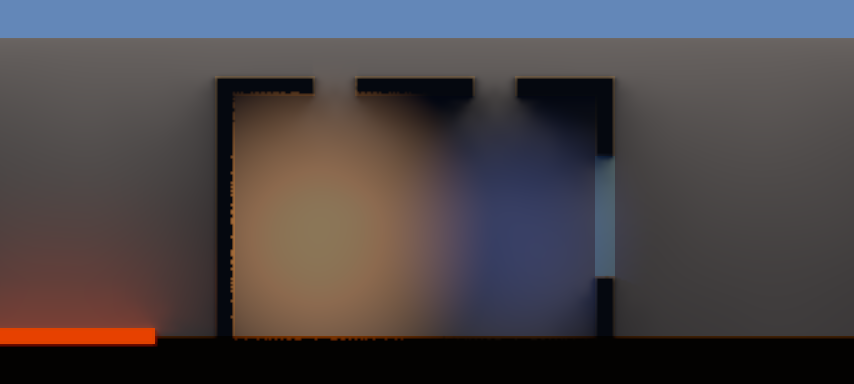
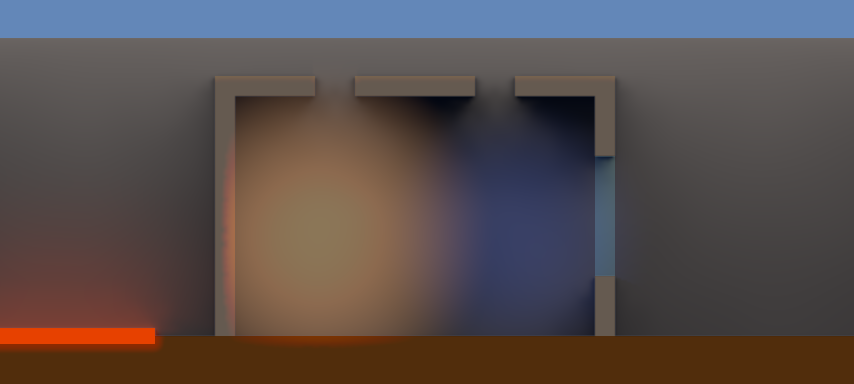
olr-format: soak 8 and a 30 % solid floor by default (plan 15a Stop 1b)
Claude-Session: https://claude.ai/code/session_019821i4KFSbhZ4mHYULrhEV

Changed region(s): [[0.0, 0.1875, 1.0, 1.0]]

diff --git a/crates/olr-format/src/look.rs b/crates/olr-format/src/look.rs
@@ -170,15 +170,39 @@ impl Default for AmbientSource {
 
 /// The least light an opaque solid pixel (rock or dirt that is not clear)
 /// shows, so deep rock still shows its art.
-#[derive(Clone, Copy, Debug, Default, PartialEq, Eq, Serialize, Deserialize)]
+#[derive(Clone, Copy, Debug, PartialEq, Eq, Serialize, Deserialize)]
 #[serde(deny_unknown_fields)]
 pub struct SolidFloorSource {
     /// Opaque. Default none: white.
     #[serde(default, skip_serializing_if = "Option::is_none")]
     pub colour: Option<Colour>,
-    /// Percent, 0 to 100. Default 0 (none).
-    #[serde(default, skip_serializing_if = "d::is_default")]
+    /// Percent, 0 to 100 (0: none). Default 30 (plan 15a Stop 1b).
+    #[serde(default = "solid_floor_intensity", skip_serializing_if = "is_solid_floor_intensity")]
     pub intensity: u16,
+}
+
+impl Default for SolidFloorSource {
+    fn default() -> SolidFloorSource {
+        SolidFloorSource { colour: None, intensity: solid_floor_intensity() }
+    }
+}
+
+/// The solid floor's default intensity, percent (plan 15a Stop 1b).
+fn solid_floor_intensity() -> u16 {
+    30
+}
+
+fn is_solid_floor_intensity(v: &u16) -> bool {
+    *v == solid_floor_intensity()
+}
+
+/// The default light soak, world pixels (plan 15a Stop 1b).
+fn light_soak() -> u8 {
+    8
+}
+
+fn is_light_soak(v: &u8) -> bool {
+    *v == light_soak()
 }
 
 fn hundred() -> u16 {
@@ -269,10 +293,10 @@ pub struct LookSource {
     #[serde(default, skip_serializing_if = "d::is_default")]
     pub softness: u8,
     /// How deep light soaks into solids from the air beside them, world
-    /// pixels, 0 to 12, fading with depth. Default 0.
-    #[serde(default, skip_serializing_if = "d::is_default")]
+    /// pixels, 0 to 12, fading with depth. Default 8.
+    #[serde(default = "light_soak", skip_serializing_if = "is_light_soak")]
     pub light_soak: u8,
-    /// The least light of an opaque solid. Default none.
+    /// The least light of an opaque solid. Default white at 30.
     #[serde(default, skip_serializing_if = "d::is_default")]
     pub solid_floor: SolidFloorSource,
     /// Default none.
@@ -291,7 +315,7 @@ impl Default for LookSource {
             max_light: 100,
             light_steps: 0,
             softness: 0,
-            light_soak: 0,
+            light_soak: light_soak(),
             solid_floor: SolidFloorSource::default(),
             grade: GradeSource::default(),
             glow_groups: Vec::new(),

diff --git a/crates/olr-format/tests/look.rs b/crates/olr-format/tests/look.rs
@@ -428,3 +428,14 @@ fn the_default_look_is_the_empty_file() {
     assert_eq!(empty, LookSource::default());
     assert_eq!(olr_format::ron_io::to_canonical("level.ron", &LookSource::default()).unwrap(), "()\n");
 }
+
+#[test]
+fn solids_defaults_are_the_stop_1_verdict() {
+    // Soak 8 and a white floor at 30 % (plan 15a Stop 1b) when a look says nothing.
+    let src = level(Some("(name: \"Lit\", size: (4, 3), art_scale: 2, theme: \"olx-theme-dirt\", look: ())"));
+    let look = compile_look(&src).unwrap().expect("a look");
+    assert_eq!((look.light_soak, look.solid_floor.colour, look.solid_floor.intensity), (8, [255; 3], 30));
+    // The defaults are left out of canonical text.
+    let text = canonical_text("level.ron", "(name: \"Lit\", size: (4, 3), art_scale: 2, theme: \"olx-theme-dirt\", look: (light_soak: 8, solid_floor: (intensity: 30)))").unwrap();
+    assert!(!text.contains("light_soak") && !text.contains("solid_floor"), "{text}");
+}

diff --git a/docs/formats/level.md b/docs/formats/level.md
@@ -127,8 +127,8 @@ A level's look: darkness, light settings, grade and glow groups. A level without
 | `max_light` | integer | `100` | The brightest light, percent, 100 to 200 (above 100, flashes brighten a lit level). Default 100. |
 | `light_steps` | integer | `0` | Bands the light: 0 (off) or 2 to 32. Default 0. |
 | `softness` | integer | `0` | Blurs the light, world pixels, 0 to 4. Default 0. |
-| `light_soak` | integer | `0` | How deep light soaks into solids from the air beside them, world pixels, 0 to 12, fading with depth. Default 0. |
-| `solid_floor` | [SolidFloorSource](#solidfloorsource) | each field's default | The least light of an opaque solid. Default none. |
+| `light_soak` | integer | `8` | How deep light soaks into solids from the air beside them, world pixels, 0 to 12, fading with depth. Default 8. |
+| `solid_floor` | [SolidFloorSource](#solidfloorsource) | each field's default | The least light of an opaque solid. Default white at 30. |
 | `grade` | [GradeSource](#gradesource) | each field's default | Default none. |
 | `glow_groups` | list of [GlowGroupSource](#glowgroupsource) | `[]` | At most 255. Default none. |
 
@@ -221,7 +221,7 @@ The least light an opaque solid pixel (rock or dirt that is not clear) shows, so
 | Field | Type | Default | Meaning |
 |---|---|---|---|
 | `colour` | [colour](#colour) (optional) | none | Opaque. Default none: white. |
-| `intensity` | integer | `0` | Percent, 0 to 100. Default 0 (none). |
+| `intensity` | integer | `30` | Percent, 0 to 100 (0: none). Default 30 (plan 15a Stop 1b). |
 
 <a id="gradesource"></a>
 

diff --git a/docs/porting/STATUS.md b/docs/porting/STATUS.md
@@ -3523,6 +3523,24 @@ and its batch reviews. Tools, not OLX behaviour; no format change.
   outside the layer refused, nothing changed), `--texture` an alias of
   `--tile`.
 
+## Look system decisions (plan 15a)
+
+Spec `docs/superpowers/specs/2026-10-18-look-system-design.md`; Task 21
+completes this section.
+
+- **Stop 1 (2026-10-18), the user's verdict on the first lit renders:** the
+  look is good, but rock read black (only faces that saw a light were lit).
+  Light now soaks into solids (`light_soak`, 0-12 world pixels, a separable
+  maximum faded by depth) and a level sets the least light a solid shows
+  (`solid_floor`); the light grid's pad grew to 16 world pixels so neither
+  depends on the camera. Clear solids (`look/clear.png`, an element's
+  `clear`) let light through as air while worms and projectiles collide.
+- **Stop 1b (2026-10-18):** the defaults for a level with a look are soak 8
+  and a white floor at 30 % (the recommendation, taken as provisional: the
+  user expects to retune them after playtests). World-pixel shadow edges
+  stay; 2 × 2 shadow sampling remains the planned fix if they look coarse
+  in play.
+
 ## Kept OLX quirks
 
 - **Healing passes 100 health:** `CGameObject::injure`

diff --git a/docs/superpowers/specs/2026-10-18-look-system-design.md b/docs/superpowers/specs/2026-10-18-look-system-design.md
@@ -164,6 +164,8 @@ soaked(p)      = max over q within soak of  lit(q) × fade(|p - q|, soak + 1)
 - **`solid_floor`** (a colour and an intensity, as the ambient) is the
   least light an opaque solid pixel shows: deep rock still shows its art.
 - Air and clear pixels are not changed by either.
+- **Defaults** (the user's verdict at Stop 1b, 2026-10-18): soak 8, floor
+  white at 30 %. Provisional: they are expected to move after playtests.
 
 ### Light sources: one shape
 
@@ -371,8 +373,8 @@ look: Some((
     max_light: 100,                    // 100-200
     light_steps: 0,                    // 0 off, 2-32
     softness: 0,                       // world pixels, 0-4
-    light_soak: 0,                     // world pixels, 0-12
-    solid_floor: (colour: "#ffffff", intensity: 0),   // the least light of an opaque solid
+    light_soak: 8,                     // world pixels, 0-12
+    solid_floor: (colour: "#ffffff", intensity: 30),  // the least light of an opaque solid
     grade: (exposure: 0, contrast: 100, saturation: 100, tint: "#ffffff"),   // exposure in 1/100 stop, -200..200
     glow_groups: [
         (id: "sky", colour: Tint("#fff0d2"), intensity: 100, reach: Unlimited, animation: Steady),
